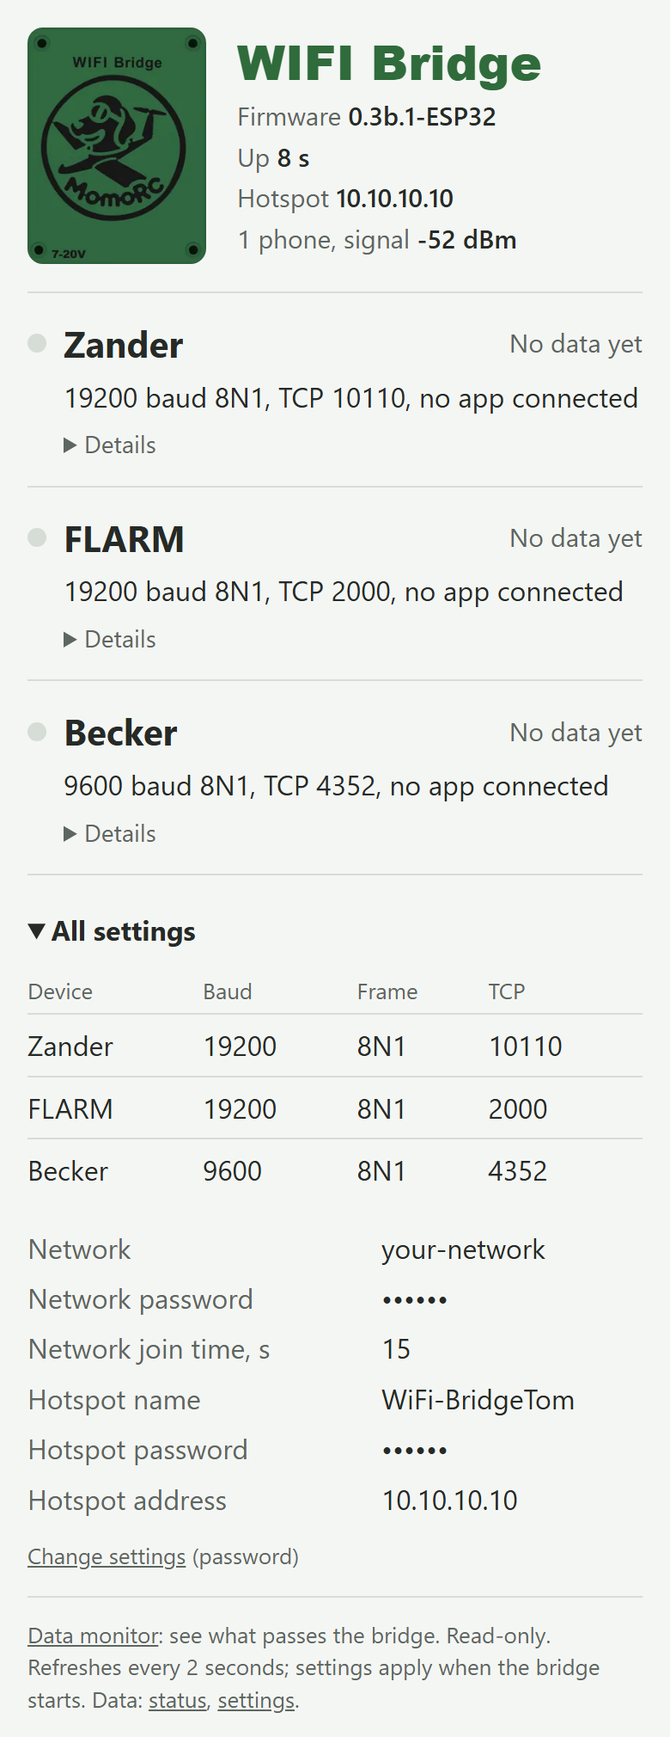
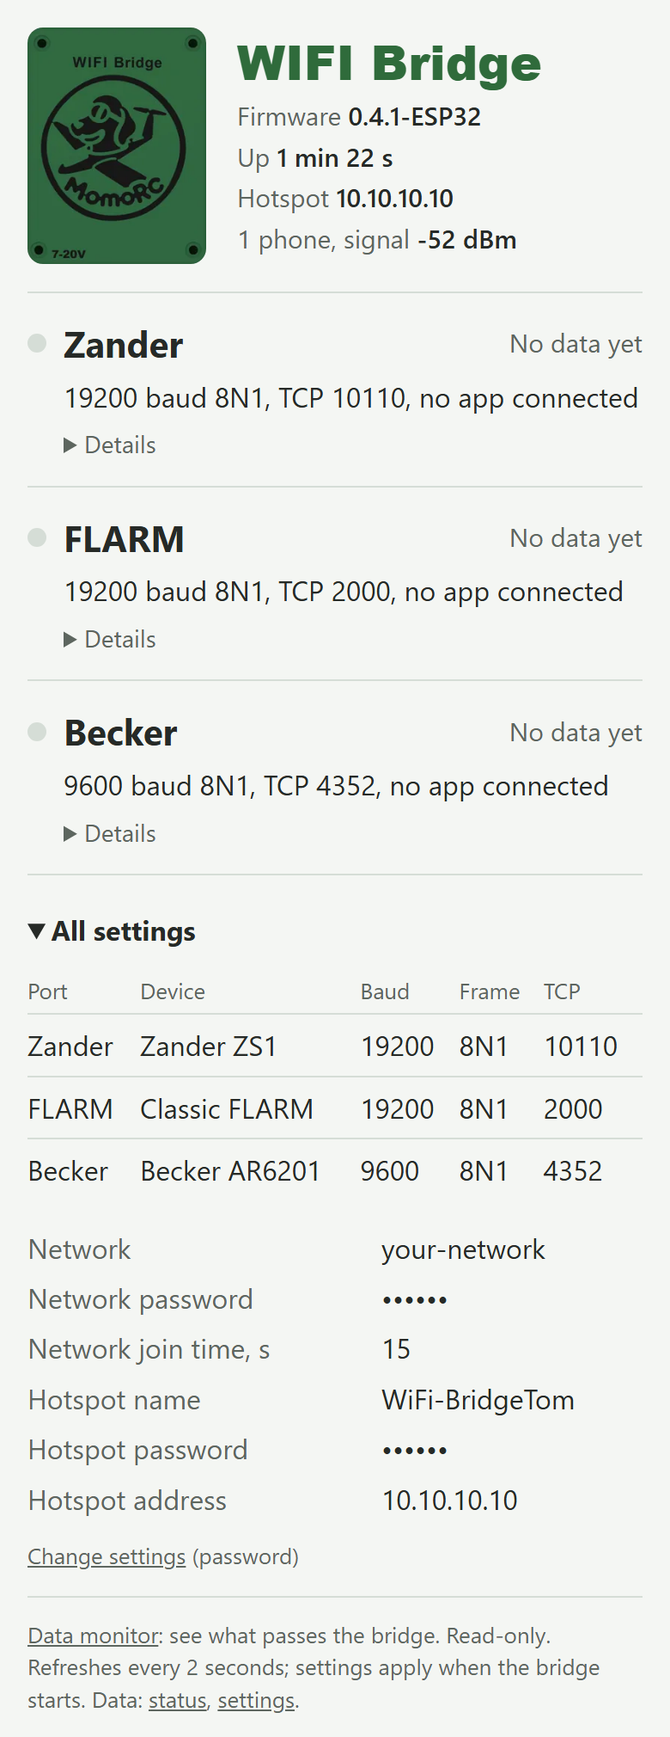
Add per-port device profiles to the bridge settings (WP9)
Owner decided to bring the WP9 software part forward. Firmware 0.4.1:
- Per-port device profile: Zander ZS1, Classic FLARM, Becker AR6201 or
  Custom. Stored as NVS key p0..p2; no format change.
- A preset fills baud and frame. Presets are offered and accepted only
  where the port wiring fits: RS-232 receive-only ports (Zander, FLARM)
  take ZS1 or Classic FLARM; the RS-422 Becker port takes AR6201.
- Editing baud or frame by hand saves the port as Custom.
- Settings page shows each port's wiring; status page settings table
  gets a Device column.
- Preset values are the candidates in config.h until installed settings
  are confirmed (WP9 open item).

Verified on the standalone bench ESP32 (S115): build 52 % (1,037,171
bytes), values stored on 0.4 survived OTA to 0.4.1 and show as Custom,
tools/settings_test.py 20/20, settings page script checked in headless
Chrome, status and settings screenshots regenerated. Not tested on the
wired bridge.

diff --git a/firmware/bridge/settings.h b/firmware/bridge/settings.h
@@ -18,9 +18,48 @@
 #define SETTINGS_FORMAT 1  // stored key "v"; another value means: ignore everything stored
 
 enum SettingOrigin : uint8_t { ORIGIN_DEFAULT, ORIGIN_STORED, ORIGIN_INVALID };
-enum SettingType : uint8_t { T_BAUD, T_FRAME, T_TCP, T_SSID, T_NETPASS, T_APPASS, T_SECONDS, T_IP };
+enum SettingType : uint8_t { T_PROFILE, T_BAUD, T_FRAME, T_TCP, T_SSID, T_NETPASS, T_APPASS, T_SECONDS, T_IP };
+
+// ---- device profiles (WP9) ------------------------------------------------------
+// A profile fills in the baud rate and frame of one instrument. It is offered only on
+// ports whose wiring fits its electrical interface. "custom" keeps manual values.
+// Preset values are the current candidates (config.h comments, sources S22, S23, S108);
+// the installed instrument settings are still to be confirmed.
+
+enum PortLink : uint8_t { LINK_RS232_IN, LINK_RS422_BOTH };  // electrical interface of a port
+
+static const char* linkText(PortLink l) {
+    return l == LINK_RS422_BOTH ? "RS-422, both ways" : "RS-232, bridge receives only";
+}
+
+struct DeviceProfile {
+    const char* id;  // stored value, at most 7 characters
+    const char* name;
+    PortLink link;
+    uint32_t baud;
+    const char* frame;
+};
+
+#define PROFILE_CUSTOM "custom"
+static const DeviceProfile kProfiles[] = {
+    {"zs1", "Zander ZS1", LINK_RS232_IN, 19200, "8N1"},
+    {"flarm", "Classic FLARM", LINK_RS232_IN, 19200, "8N1"},
+    {"ar6201", "Becker AR6201", LINK_RS422_BOTH, 9600, "8N1"},
+};
+static constexpr size_t kProfileCount = sizeof(kProfiles) / sizeof(kProfiles[0]);
+
+// Wiring of COM 0, 1, 2 (docs/hardware/wiring.md): two RS-232 modules without return line, the RS-422 board.
+static const PortLink kPortLink[] = {LINK_RS232_IN, LINK_RS232_IN, LINK_RS422_BOTH};
+static_assert(sizeof(kPortLink) / sizeof(kPortLink[0]) == NUM_COM, "one link per port");
+
+static const DeviceProfile* findProfile(const char* id) {
+    for (const DeviceProfile& p : kProfiles)
+        if (strcmp(p.id, id) == 0) return &p;
+    return nullptr;
+}
 
 struct PortSettings {
+    char profile[8];  // device profile id or "custom"
     uint32_t baud;
     char frame[4];  // data bits, parity, stop bits, for example "8N1"
     uint16_t tcpPort;
@@ -55,12 +94,15 @@ struct SettingItem {
 };
 
 static SettingItem kSettings[] = {
+    {"p0", T_PROFILE, settings.port[0].profile, ORIGIN_DEFAULT},
     {"b0", T_BAUD, &settings.port[0].baud, ORIGIN_DEFAULT},
     {"f0", T_FRAME, settings.port[0].frame, ORIGIN_DEFAULT},
     {"t0", T_TCP, &settings.port[0].tcpPort, ORIGIN_DEFAULT},
+    {"p1", T_PROFILE, settings.port[1].profile, ORIGIN_DEFAULT},
     {"b1", T_BAUD, &settings.port[1].baud, ORIGIN_DEFAULT},
     {"f1", T_FRAME, settings.port[1].frame, ORIGIN_DEFAULT},
     {"t1", T_TCP, &settings.port[1].tcpPort, ORIGIN_DEFAULT},
+    {"p2", T_PROFILE, settings.port[2].profile, ORIGIN_DEFAULT},
     {"b2", T_BAUD, &settings.port[2].baud, ORIGIN_DEFAULT},
     {"f2", T_FRAME, settings.port[2].frame, ORIGIN_DEFAULT},
     {"t2", T_TCP, &settings.port[2].tcpPort, ORIGIN_DEFAULT},
@@ -124,9 +166,17 @@ static bool validIp(uint32_t raw) {
     return ip[0] >= 1 && ip[0] <= 223 && ip[0] != 127 && ip[3] >= 1 && ip[3] <= 254;
 }
 
+// A profile fits a port if its interface matches the port's wiring; Custom fits every port.
+static bool profileFits(const char* id, int portNum) {
+    if (strcmp(id, PROFILE_CUSTOM) == 0) return true;
+    const DeviceProfile* p = findProfile(id);
+    return p && portNum >= 0 && portNum < NUM_COM && p->link == kPortLink[portNum];
+}
+
 // Check one value of the given type at v; portNum is -1 for values that belong to no port.
 static bool validAt(SettingType type, const void* v, int portNum) {
     switch (type) {
+        case T_PROFILE: return profileFits((const char*)v, portNum);
         case T_BAUD: return validBaud(*(const uint32_t*)v);
         case T_FRAME: return validFrame((const char*)v);
         case T_TCP: {
@@ -152,7 +202,21 @@ static bool validValue(const SettingItem& s, int portNum) { return validAt(s.typ
 
 static int portOf(const SettingItem& s) {  // port number for per-port keys, -1 otherwise
     const char c = s.key[1];
-    return (s.key[2] == 0 && c >= '0' && c < '0' + NUM_COM && strchr("bft", s.key[0])) ? c - '0' : -1;
+    return (s.key[2] == 0 && c >= '0' && c < '0' + NUM_COM && strchr("pbft", s.key[0])) ? c - '0' : -1;
+}
+
+// A preset whose baud or frame was edited by hand becomes Custom. Returns the ports changed.
+static int profilesMatchValues(BridgeSettings& b) {
+    int changed = 0;
+    for (int n = 0; n < NUM_COM; n++) {
+        PortSettings& ps = b.port[n];
+        const DeviceProfile* p = findProfile(ps.profile);
+        if (!p || (p->baud == ps.baud && strcmp(p->frame, ps.frame) == 0)) continue;
+        memset(ps.profile, 0, sizeof(ps.profile));  // whole-buffer comparisons in settingsSave()
+        strlcpy(ps.profile, PROFILE_CUSTOM, sizeof(ps.profile));
+        changed |= 1 << n;
+    }
+    return changed;
 }
 
 // ---- display -------------------------------------------------------------------
@@ -162,6 +226,7 @@ static bool settingSecret(const SettingItem& s) { return s.type == T_NETPASS || 
 // Short name of the value, without the port: "baud", "TCP port", "network" ...
 static const char* settingName(const SettingItem& s) {
     switch (s.type) {
+        case T_PROFILE: return "device";
         case T_BAUD: return "baud";
         case T_FRAME: return "frame";
         case T_TCP: return "TCP port";
@@ -198,7 +263,9 @@ static void fillDefaults(BridgeSettings& out) {
     const uint32_t baud[NUM_COM] = {UART_BAUD0, UART_BAUD1, UART_BAUD2};
     const uint32_t frame[NUM_COM] = {SERIAL_PARAM0, SERIAL_PARAM1, SERIAL_PARAM2};
     const uint16_t tcp[NUM_COM] = {SERIAL0_TCP_PORT, SERIAL1_TCP_PORT, SERIAL2_TCP_PORT};
+    const char* const profile[NUM_COM] = PORT_PROFILES;
     for (int n = 0; n < NUM_COM; n++) {
+        strlcpy(out.port[n].profile, profile[n], sizeof(out.port[n].profile));
         out.port[n].baud = baud[n];
         frameFromCode(frame[n], out.port[n].frame);
         out.port[n].tcpPort = tcp[n];
@@ -223,6 +290,7 @@ static size_t valueSize(SettingType t) {
         case T_TCP:
         case T_SECONDS: return 2;
         case T_FRAME: return 4;
+        case T_PROFILE: return 8;
         case T_SSID: return 33;
         default: return 64;  // passwords
     }
@@ -437,6 +505,13 @@ static void settingsLoad() {
     }
     p.end();
     settingsCrossCheck(defaults);
+    // Values saved before profiles existed, or edited by hand: a preset that no longer
+    // matches its baud and frame shows as Custom.
+    const int custom = profilesMatchValues(settings);
+    for (size_t i = 0; i < kSettingCount; i++) {
+        SettingItem& s = kSettings[i];
+        if (s.type == T_PROFILE && ((custom >> portOf(s)) & 1) && s.origin == ORIGIN_DEFAULT) s.origin = ORIGIN_STORED;
+    }
 #endif
 }
 

diff --git a/firmware/bridge/settings_page.h b/firmware/bridge/settings_page.h
@@ -29,6 +29,7 @@ static void restartSoon() {
 
 static const char* settingHint(SettingType type, int portNum) {
     switch (type) {
+        case T_PROFILE: return "Choose a listed device; the others do not fit this port's wiring";
         case T_BAUD: return "Choose one of the listed rates";
         case T_FRAME: return "Data bits 5 to 8, parity N, E or O, stop bits 1 or 2, for example 8N1";
         case T_TCP: return "1 to 65535, not 80, not used by another device";
@@ -107,6 +108,7 @@ static void handleSettingsSave() {
         statusServer.send(400, "application/json", "{\"ok\":false,\"errors\":{" + errors + "}}");
         return;
     }
+    profilesMatchValues(cand);  // a preset with edited baud or frame is stored as Custom
     const bool trial = settingsSave(cand);
     statusServer.send(200, "application/json", trial ? "{\"ok\":true,\"trial\":true}" : "{\"ok\":true,\"trial\":false}");
     restartSoon();
@@ -154,6 +156,7 @@ fieldset{border:0;border-top:1px solid var(--rule);margin:0;padding:14px 0}
 legend{font-size:20px;font-weight:700;padding:0 0 4px}
 .f{display:grid;grid-template-columns:repeat(auto-fill,minmax(130px,1fr));gap:12px 16px}
 .f.w{grid-template-columns:1fr}
+.dev{grid-column:1/-1}
 label{display:block;color:var(--mute);font-size:14px}
 input,select{display:block;width:100%;margin-top:3px;padding:8px 10px;font:inherit;color:var(--ink);background:var(--field);border:1px solid var(--rule);border-radius:8px}
 input:focus,select:focus,button:focus-visible{outline:2px solid var(--green);outline-offset:1px}
@@ -179,14 +182,18 @@ button{font:inherit;font-weight:600;border-radius:10px;padding:10px 18px;cursor:
 const $=i=>document.getElementById(i);
 const esc=x=>String(x).replace(/[&<>"]/g,c=>({'&':'&amp;','<':'&lt;','>':'&gt;','"':'&quot;'})[c]);
 const BAUD=[1200,2400,4800,9600,19200,38400,57600,115200,230400],FRAME=['8N1','8E1','8O1','8N2','7E1','7O1','7N1'];
-let items=[];
-function field(i){const id='k_'+i.key,lab=esc(i.name.charAt(0).toUpperCase()+i.name.slice(1));let c;
-if(i.key[0]==='b'||i.key[0]==='f'){const o=i.key[0]==='b'?BAUD:FRAME;c='<select id="'+id+'" name="'+i.key+'">'+o.map(x=>'<option'+(String(x)===i.value?' selected':'')+'>'+x+'</option>').join('')+'</select>'}
+let items=[],PROF={},PORTS=[],NAME={custom:'Custom'};
+function field(i){const id='k_'+i.key,lab=esc(i.name.charAt(0).toUpperCase()+i.name.slice(1)),n=i.key[1],dev=i.port&&i.key[0]==='p';let c,w='';
+if(dev){const P=PORTS[+n];c='<select id="'+id+'" name="'+i.key+'" onchange="preset('+n+')">'+P.profiles.concat('custom').map(x=>'<option value="'+x+'"'+(x===i.value?' selected':'')+'>'+esc(NAME[x])+'</option>').join('')+'</select>';w='<span class="def">Wiring: '+esc(P.interface)+'. Presets fill in baud and frame.</span>'}
+else if(i.port&&(i.key[0]==='b'||i.key[0]==='f')){const o=i.key[0]==='b'?BAUD:FRAME;c='<select id="'+id+'" name="'+i.key+'" onchange="manual('+n+')">'+o.map(x=>'<option'+(String(x)===i.value?' selected':'')+'>'+x+'</option>').join('')+'</select>'}
 else if(i.secret)c='<input id="'+id+'" name="'+i.key+'" type="password" autocomplete="new-password" placeholder="Unchanged">';
 else{const num=i.key[0]==='t'||i.key==='nj';c='<input id="'+id+'" name="'+i.key+'" value="'+esc(i.value)+'"'+(num?' inputmode="numeric"':'')+'>'}
-const d=i.secret?'':'<span class="def'+(i.origin==='changed'?' chg':'')+'">'+(i.origin==='changed'?'Changed, default ':'Default ')+esc(i.default)+'</span>';
-return '<div><label for="'+id+'">'+lab+'</label>'+c+d+'<div class="err" id="e_'+i.key+'"></div></div>'}
-function load(){fetch('/api/settings',{cache:'no-store'}).then(r=>r.json()).then(d=>{items=d.items;const g={},o=[];
+const dv=dev?NAME[i.default]||i.default:i.default;
+const d=i.secret?'':'<span class="def'+(i.origin==='changed'?' chg':'')+'">'+(i.origin==='changed'?'Changed, default ':'Default ')+esc(dv)+'</span>';
+return '<div'+(dev?' class="dev"':'')+'><label for="'+id+'">'+lab+'</label>'+c+d+(w?'<br>'+w:'')+'<div class="err" id="e_'+i.key+'"></div></div>'}
+function preset(n){const p=PROF[$('k_p'+n).value];if(p){$('k_b'+n).value=p.baud;$('k_f'+n).value=p.frame}}
+function manual(n){const s=$('k_p'+n),p=s&&PROF[s.value];if(p&&($('k_b'+n).value!==p.baud||$('k_f'+n).value!==p.frame))s.value='custom'}
+function load(){fetch('/api/settings',{cache:'no-store'}).then(r=>r.json()).then(d=>{items=d.items;PORTS=d.ports||[];for(const p of d.profiles||[]){PROF[p.id]=p;NAME[p.id]=p.name}const g={},o=[];
 for(const i of d.items){const k=i.port||'Wi-Fi';if(!g[k]){g[k]=[];o.push(k)}g[k].push(i)}
 $('fs').innerHTML=o.map(k=>'<fieldset><legend>'+esc(k)+'</legend><div class="f'+(k==='Wi-Fi'?' w':'')+'">'+g[k].map(field).join('')+'</div></fieldset>').join('');
 if(d.trial&&d.trial.active){$('trial').hidden=false;$('tt').textContent='These Wi-Fi or port settings are on trial. Keep them within '+Math.ceil(d.trial.seconds_left/60)+' min, otherwise the previous settings come back.'}})}

diff --git a/firmware/bridge/status_page.h b/firmware/bridge/status_page.h
@@ -110,10 +110,11 @@ $('x'+n).innerHTML='<div><dt>From device</dt><dd>'+size(p.bytes_from_device)+'</
 function g(){fetch('/api/settings',{cache:'no-store'}).then(r=>r.json()).then(d=>{
 const ports={},order=[],wifi=[];for(const i of d.items){if(i.port){if(!ports[i.port]){ports[i.port]={};order.push(i.port)}ports[i.port][i.key[0]]=i}else wifi.push(i)}
 order.forEach((k,n)=>{frame[n]=ports[k].f.value});
-const cell=i=>{const v=i.secret?'\u2022\u2022\u2022\u2022\u2022\u2022':esc(i.value);return i.origin==='changed'?'<b class="chg">'+v+'</b>':i.origin==='invalid'?'<b class="bad">'+v+'</b>':v};
+const pn={custom:'Custom'};for(const p of d.profiles||[])pn[p.id]=p.name;
+const cell=(i,t)=>{const v=i.secret?'\u2022\u2022\u2022\u2022\u2022\u2022':esc(t||i.value);return i.origin==='changed'?'<b class="chg">'+v+'</b>':i.origin==='invalid'?'<b class="bad">'+v+'</b>':v};
 let h=d.format_mismatch?'<p class="bad">Settings saved by another firmware version were ignored; the defaults are in use.</p>':'';
-h+='<table><tr><th>Device</th><th>Baud</th><th>Frame</th><th>TCP</th></tr>';
-for(const k of order){const p=ports[k];h+='<tr><td>'+esc(k)+'</td><td>'+cell(p.b)+'</td><td>'+cell(p.f)+'</td><td>'+cell(p.t)+'</td></tr>'}
+h+='<table><tr><th>Port</th><th>Device</th><th>Baud</th><th>Frame</th><th>TCP</th></tr>';
+for(const k of order){const p=ports[k];h+='<tr><td>'+esc(k)+'</td><td>'+(p.p?cell(p.p,pn[p.p.value]):'')+'</td><td>'+cell(p.b)+'</td><td>'+cell(p.f)+'</td><td>'+cell(p.t)+'</td></tr>'}
 h+='</table><div class="grp">';for(const i of wifi){h+='<span>'+esc(i.name.charAt(0).toUpperCase()+i.name.slice(1))+'</span><div>'+cell(i)+'</div>'}
 const any=d.items.some(i=>i.origin!=='default');
 if(d.trial&&d.trial.active){$('trial').hidden=false;$('tt').textContent='New Wi-Fi or port settings are on trial for '+Math.ceil(d.trial.seconds_left/60)+' more min.'}
@@ -183,6 +184,30 @@ static String settingsJson() {
     String out;
     out.reserve(2048);
     out += settingsFormatMismatch ? "{\"format_mismatch\":true," : "{\"format_mismatch\":false,";
+    char part[160];  // one profile is about 115 bytes
+    out += "\"profiles\":[";  // device profiles (WP9): what each preset fills in and needs
+    for (size_t i = 0; i < kProfileCount; i++) {
+        const DeviceProfile& p = kProfiles[i];
+        snprintf(part, sizeof(part), "%s{\"id\":\"%s\",\"name\":\"%s\",\"baud\":\"%lu\",\"frame\":\"%s\",\"interface\":\"%s\"}",
+                 i ? "," : "", p.id, p.name, (unsigned long)p.baud, p.frame, linkText(p.link));
+        out += part;
+    }
+    out += "],\"ports\":[";  // per port: its wiring and the profiles that fit it
+    for (int n = 0; n < NUM_COM; n++) {
+        snprintf(part, sizeof(part), "%s{\"name\":\"%s\",\"interface\":\"%s\",\"profiles\":[", n ? "," : "", kPortName[n],
+                 linkText(kPortLink[n]));
+        out += part;
+        bool first = true;
+        for (const DeviceProfile& p : kProfiles) {
+            if (!profileFits(p.id, n)) continue;
+            out += first ? "\"" : ",\"";
+            out += p.id;
+            out += "\"";
+            first = false;
+        }
+        out += "]}";
+    }
+    out += "],";
     if (settingsTrial) {
         const uint32_t left = millis() < SETTINGS_TRIAL_MS ? (SETTINGS_TRIAL_MS - millis()) / 1000 : 0;
         out += "\"trial\":{\"active\":true,\"seconds_left\":" + String(left) + "},\"items\":[";

diff --git a/tools/settings_test.py b/tools/settings_test.py
@@ -12,8 +12,10 @@ Checks:
  3. a serial change (radio baud) is saved, survives the restart, no trial
  4. setting it back to the default removes it (shows as default)
  5. a port change starts a trial; the new port listens; Keep ends the trial
- 6. reset brings back all defaults
- 7. with --revert: an unkept port change reverts after 10 minutes
+ 6. device profiles: only presets that fit a port's wiring are offered and
+    accepted; a preset fills baud and frame; an edited preset is saved as Custom
+ 7. reset brings back all defaults
+ 8. with --revert: an unkept port change reverts after 10 minutes
 """
 
 import argparse
@@ -116,6 +118,23 @@ def main():
     code, _ = request(host, "/api/settings", {"b2": b2["default"]}, auth=pw)
     s = wait_back(host)
     check("back to default shows as default", item(s, "b2")["origin"] == "default" and code == 200)
+
+    s = settings(host)
+    offered = {p["name"]: p["profiles"] for p in s.get("ports", [])}
+    check("presets offered by wiring", offered == {"Zander": ["zs1", "flarm"], "FLARM": ["zs1", "flarm"], "Becker": ["ar6201"]}, str(offered))
+    code, body = request(host, "/api/settings", {"p2": "zs1", "p0": "ar6201", "p1": "nonsense"}, auth=pw)
+    errs = json.loads(body).get("errors", {}) if code == 400 else {}
+    check("unfitting or unknown presets refused", code == 400 and {"p0", "p1", "p2"} <= set(errs), f"HTTP {code}, fields {sorted(errs)}")
+
+    code, body = request(host, "/api/settings", {"p0": "flarm", "b0": "19200", "f0": "8N1", "p1": "flarm", "b1": "9600", "f1": "8N1"}, auth=pw)
+    check("preset change saved without trial", code == 200 and json.loads(body) == {"ok": True, "trial": False}, body.decode())
+    s = wait_back(host)
+    p0, b0, p1, b1 = (item(s, k) for k in ("p0", "b0", "p1", "b1"))
+    check("Zander port keeps the FLARM preset after restart", p0["value"] == "flarm" and p0["origin"] == "changed" and b0["origin"] == "default", f"{p0}, {b0}")
+    check("edited preset saved as Custom", p1["value"] == "custom" and b1["value"] == "9600", f"{p1}, {b1}")
+    code, _ = request(host, "/api/settings", {"p0": "zs1", "b0": "19200", "f0": "8N1", "p1": "flarm", "b1": "19200", "f1": "8N1"}, auth=pw)
+    s = wait_back(host)
+    check("default presets show as default", code == 200 and all(item(s, k)["origin"] == "default" for k in ("p0", "b0", "f0", "p1", "b1", "f1")))
 
     code, body = request(host, "/api/settings", {"t0": "10111"}, auth=pw)
     check("port change starts a trial", code == 200 and json.loads(body).get("trial") is True, body.decode())

diff --git a/firmware/bridge/config.h b/firmware/bridge/config.h
@@ -53,7 +53,7 @@
                              // incoming bytes while the loop waits on a UART write
 
 #ifdef ESP32
-#define VERSION "0.4-ESP32"       // Project: own version, 0.<plan step> until bench acceptance
+#define VERSION "0.4.1-ESP32"     // Project: own version, 0.<plan step> until bench acceptance; .1 = device profiles (WP9)
 #elif defined(ESP8266)
 #define VERSION "0.3b.1-ESP8266"
 #endif
@@ -65,6 +65,7 @@
 #define STATUS_PAGE            // Project: read-only status page on port 80 and /api/status (ESP32 only)
 #define STORED_SETTINGS        // Project: settings stored on the ESP32 override the defaults here (step 3a, ESP32 only)
 #define PORT_NAMES {"Zander", "FLARM", "Becker"}  // Project: COM 0, 1, 2 on the status page
+#define PORT_PROFILES {"zs1", "flarm", "ar6201"}  // Project: default device profile per COM (settings.h); baud and frame must match UART_BAUDn and SERIAL_PARAMn
 //#define BLUETOOTH 0          // uncomment to create a bluetooth serial bridge on the indicated serial port (ESP32 only)
 //#define BATTERY_SAVER        // uncomment to reduce wifi power
 

diff --git a/docs/research/sources.md b/docs/research/sources.md
@@ -7,7 +7,7 @@
 Every source the project relies on: what it is, what was checked in it, and its limits. Other pages cite these IDs (S01, F02 …).
 
 > [!NOTE]
-> **Status:** documents and code are reviewed; owner-measured RS-232 and ESP32 PCB dimensions are recorded in S38 and S40, the OTA loader and bridge firmware bench results in S97–S107. Electrical checks of the bridge hardware are pending. Dated review records: [reviews](reviews).
+> **Status:** documents and code are reviewed; owner-measured RS-232 and ESP32 PCB dimensions are recorded in S38 and S40, the OTA loader and bridge firmware bench results in S97–S115. Electrical checks of the bridge hardware are pending. Dated review records: [reviews](reviews).
 
 📑 **On this page:** <kbd>[1 · 🏷 Evidence labels](#evidence-labels)</kbd> <kbd>[2 · 📋 Source register](#source-register)</kbd> <kbd>[3 · 🔍 Driver findings](#findings)</kbd>
 
@@ -142,6 +142,7 @@ New evidence records the revision or page, the date, what was checked and its la
 | S112 | [Bridge firmware](../../firmware/bridge/README.md#data-monitor) step 3b: data monitor and UDP send counter, firmware 0.3b, 2026-11-17 | Measured by Claude on the bench PC and bench ESP32 (bare, USB, jumpers as S105). Build 1,036,079 bytes (52 %), 80,464 bytes static RAM (+20 kB for the buffers). `tools/monitor_test.py` 7/7: nothing collected before the monitor opened; a line sent to the Zander port showed on Zander as *to* and on FLARM as *from*; a radio frame with 00 and A5 bytes showed both ways; collection stopped 10 s after the last poll; page served. Loop test with the monitor polling like the page (one device, new chunks only, every second): 4 of 5 runs 8/8, one run lost one UDP datagram; without the monitor 1 of 3 runs 8/8, two runs lost one UDP datagram each. The bridge refused no UDP send in any run (new `udp_drops` counter 0), so the losses happen after the bridge, on the broadcast path without acknowledgement. TCP and radio paths byte-exact in every run. A harsher poll (full history of all three devices every second, about 33 kB/s) lost one UDP datagram in 2 of 4 runs before the reply was streamed from a fixed buffer. Page rendering checked in Chrome with demo data; Pause, Clear and Download were not exercised, nor any phone browser. |
 | S113 | [Bridge firmware](../../firmware/bridge/README.md#project-settings) 0.3b.1: UDP removed on the owner's decision, 2026-11-17 | Measured by Claude on the bench PC and bench ESP32 (bare, USB, jumpers as S105). Build 1,031,347 bytes (52 %), 80,272 bytes static RAM. Loop test 4/4: TCP Zander and FLARM both ways and the radio loop byte-exact; UDP datagrams sent to 14550, 14551 and 14552 reached no device. Monitor test 7/7, settings test 14/14 (without the timed revert, whose code is unchanged). Status and settings page show no UDP fields. Reason for the removal: S112, UDP broadcast lost single datagrams with and without load while the bridge refused no send. |
 | S114 | [Bridge firmware](../../firmware/bridge/README.md#loop-check-step-2) 0.4, WP6 step 4, 2026-11-17. Standalone ESP32, USB power, jumper loops as S105 | Built with arduino-cli 1.3.1 and Arduino-ESP32 3.3.12, 1,034,839 bytes (52 %) and 80,280 bytes static RAM. Only the two existing `available()` deprecation warnings on the navigation listeners. OTA upload over the bench network and restart verified. `bridge_loop_test.py --radio-loop --radio-owner` went from 7/10 on 0.3b.1 to 10/10 on 0.4: second radio client refused, its data excluded, port reclaimed after TCP FIN, all three loops byte-exact. Monitor test 7/7. Status reported zero UART errors and TCP short writes. Still to test: keepalive after an unannounced Wi-Fi loss, hotspot disassociation, MAX490 and RS-232 paths, and step 5. |
+| S115 | [Bridge firmware](../../firmware/bridge/README.md#settings-page) 0.4.1, device profiles (WP9, software part), 2026-11-17. Standalone ESP32, USB power, jumper loops as S105 | Measured by Claude on the bench PC and bench ESP32. Built with arduino-cli 1.6.0 and Arduino-ESP32 3.3.12, 1,037,171 bytes (52 %) and 80,352 bytes static RAM; only the two existing `available()` warnings. Settings stored on 0.4 (radio baud 19200, FLARM frame 8E1) survived the OTA update to 0.4.1, stayed active (UART2 at 19200) and showed as Custom on both ports; format version unchanged. `tools/settings_test.py` 20/20, including: presets offered by wiring (Zander and FLARM ports: ZS1, Classic FLARM; Becker port: AR6201); unfitting or unknown presets refused per field; Classic FLARM preset on the Zander port kept after restart with baud and frame shown as default; a preset with edited baud saved as Custom; trial, Keep and reset unchanged. Settings page script in headless Chrome: a preset fills baud and frame, a manual baud or frame change selects Custom. Preset values are the config.h candidates, not installed settings. |
 
 ---
 

diff --git a/docs/project/roadmap.md b/docs/project/roadmap.md
@@ -7,7 +7,7 @@
 The single work queue: which work package comes next and what finishes it.
 
 > [!NOTE]
-> **Status:** WP3 continues with wiring and bench validation. In the [bridge firmware plan](#firmware-plan) (WP6), steps 1–3b are done and step 4 firmware is on the standalone ESP32. The wired checks for steps 4 and 5 remain. The driver packages (WP4, WP5) wait until WP3 is complete. Work outside the approved plan needs the owner's approval.
+> **Status:** WP3 continues with wiring and bench validation. In the [bridge firmware plan](#firmware-plan) (WP6), steps 1–3b are done and step 4 firmware is on the standalone ESP32. The wired checks for steps 4 and 5 remain. The software part of the device profiles (WP9) is brought forward and runs on the standalone ESP32. The driver packages (WP4, WP5) wait until WP3 is complete. Work outside the approved plan needs the owner's approval.
 
 📑 **On this page:** <kbd>[1 · 📦 Work packages](#work-packages)</kbd> <kbd>[2 · 💻 Bridge firmware plan](#firmware-plan)</kbd> <kbd>[3 · 🏁 Milestones](#milestones)</kbd> <kbd>[4 · ✅ Test coverage for the software phase](#test-coverage)</kbd>
 
@@ -29,7 +29,7 @@ Related: ❓ [Open items](open-items.md) · 🎯 [Requirements](../design/requir
 | WP5 Host tests | ⏸ Send regression only ([review](../research/reviews/2026-11-08-becker-send.md)) | After WP4 scope is approved | Framing, state, reply and reconnect cases pass |
 | WP6 Bridge firmware | 🟡 Step 4 firmware checked on the standalone ESP32 (S114) | Run the step 4 [wired checks](#firmware-plan), then step 5 | Radio path byte-exact, single owner, navigation unaffected; phone signal readable on the status page in hotspot mode ([R10](../design/requirements.md#requirements)) |
 | WP8 Aircraft integration | ⬜ Later | Needs verified hardware and separate approval | Installation, protection and approval requirements met |
-| WP9 Device profiles | ⬜ Planned | After WP3 and WP6 bench acceptance, define the first [device profiles](#device-profiles) from verified settings | Presets and manual settings work on compatible ports, survive restart and OTA, and preserve existing configurations |
+| WP9 Device profiles | 🟡 Software part brought forward: [profiles](#device-profiles) in firmware 0.4.1 on the standalone ESP32 (S115) | Replace the candidate preset values once the [installed settings](open-items.md#installed-equipment) are known; check them on the wired bridge | Presets and manual settings work on compatible ports, survive restart and OTA, and preserve existing configurations |
 
 ### 1.1 Work loop
 
@@ -50,7 +50,7 @@ flowchart LR
 ### 1.2 Device profiles (WP9)
 
 - Choose an instrument preset per port on the [settings page](#settings-page) to fill in its baud rate and serial frame. Use **Custom** for manual values. Keep the TCP port editable independently so the OpenSoar connection can stay the same.
-- Start with Zander ZS1, Classic FLARM and Becker AR6201 once their settings are verified. Show the required electrical interface and offer presets only on ports with compatible wiring and direction. Candidate additions are LXNAV S80/S100, PowerFLARM Fusion, TQ KRT2 and f.u.n.k.e. ATR833, subject to model and interface checks.
+- First presets: Zander ZS1, Classic FLARM and Becker AR6201, with the candidate values from `config.h` until the installed settings are verified. The page shows each port's wiring and offers presets only where wiring and direction fit ([firmware](../../firmware/bridge/README.md#settings-page)). Candidate additions are LXNAV S80/S100, PowerFLARM Fusion, TQ KRT2 and f.u.n.k.e. ATR833, subject to model and interface checks.
 - Keep device protocol handling in OpenSoar and retain [one writer on the dedicated radio port](../design/architecture.md#adr-01).
 
 ---

diff --git a/firmware/bridge/README.md b/firmware/bridge/README.md
@@ -61,7 +61,7 @@ Open `http://<bridge address>/` (10.10.10.10 in hotspot mode) in a browser. [`st
 | `/` | The page, about 7.4 kB |
 | `/device.webp` | Lid photo, 5.3 kB, cached for a day |
 | `/api/status` | Live counters as JSON |
-| `/api/settings` | Active settings, their defaults and source (`default`, `changed`, `invalid`) and the trial state as JSON |
+| `/api/settings` | Active settings, their defaults and source (`default`, `changed`, `invalid`), the trial state and the device profiles with the presets that fit each port, as JSON |
 | `/monitor`, `/api/monitor` | [Data monitor](#data-monitor) |
 
 After any change to the status, settings or monitor page, take new screenshots from the running bridge and commit them with the change: `python tools/status_screenshot.py <bridge address>`. It masks the network name, shows hotspot mode and uses demo data for the monitor, since the repository is public.
@@ -76,7 +76,8 @@ Open *Change settings* under *All settings*, or `http://<bridge address>/setting
 
 | What | How it works |
 | --- | --- |
-| Values | Per device: baud, frame, TCP port. Wi-Fi: network name and password, join time, hotspot name, password and address. Pins, radio port rules, hostname and OTA password stay fixed in the firmware |
+| Values | Per device: device profile, baud, frame, TCP port. Wi-Fi: network name and password, join time, hotspot name, password and address. Pins, radio port rules, hostname and OTA password stay fixed in the firmware |
+| Device profiles | Choose the instrument on a port: Zander ZS1, Classic FLARM, Becker AR6201 or Custom. A preset fills in baud and frame; changing either by hand selects Custom. Only presets that fit the port's wiring are offered and accepted: Zander and FLARM ports (RS-232, bridge receives only) take ZS1 or Classic FLARM, the Becker port (RS-422, both ways) takes AR6201. The page shows the port's wiring under the choice. Preset values are the candidates in `config.h`. Settings saved before profiles existed keep working: a preset that no longer matches its baud and frame shows as Custom. The TCP port stays separate
 | Checks | Every field is checked on the bridge; a refused save names each wrong field and changes nothing. TCP ports may not repeat and may not be 80 |
 | Passwords | Never shown. Leave the field empty to keep the current one |
 | Save and restart | Values equal to the default are not stored, so they show as default. The bridge restarts and uses the new values |
@@ -87,11 +88,11 @@ Open *Change settings* under *All settings*, or `http://<bridge address>/setting
 | Address | Content |
 | --- | --- |
 | `GET /settings` | The page (password) |
-| `POST /api/settings` | Check and save form fields named by their keys (`b0`, `f0`, `t0` ... `ns`, `np`, `nj`, `hs`, `hp`, `ha`), then restart (password) |
+| `POST /api/settings` | Check and save form fields named by their keys (`p0`, `b0`, `f0`, `t0` ... `ns`, `np`, `nj`, `hs`, `hp`, `ha`), then restart (password) |
 | `POST /api/keep` | Keep settings on trial (password) |
 | `POST /api/reset` | Forget all stored values, then restart (password) |
 
-Bench check: `python tools/settings_test.py <bridge address> [--revert]` runs the password, refusal, save, trial, *Keep*, reset and (with `--revert`, 10 minutes) automatic revert checks. The bridge must be in network mode, so its address stays the same across restarts.
+Bench check: `python tools/settings_test.py <bridge address> [--revert]` runs the password, refusal, save, device profile, trial, *Keep*, reset and (with `--revert`, 10 minutes) automatic revert checks. The bridge must be in network mode, so its address stays the same across restarts.
 
 <a id="data-monitor"></a>
 

diff --git a/AGENTS.md b/AGENTS.md
@@ -4,7 +4,7 @@
 
 This project is preparing a bench prototype. Read README.md, the current package in docs/project/roadmap.md, and only the source/documents needed for that package. Check repository status and preserve unrelated edits.
 
-**Current focus: WP3 wiring and bench validation.** Use the accepted housing design linked from the roadmap. Reopen mechanical design only if a physical check calls for a change. In parallel, the bridge firmware follows the approved plan in the roadmap, one step at a time: steps 1–3b done, step 4 firmware checked on the standalone ESP32, wired checks for steps 4–5 pending. Ask the owner before removing any upstream feature from it. No other software or driver work until WP3 is complete. Ask the owner for each hardware decision (part choice, circuit option, wiring choice) separately; present the options with a recommendation, then record the answer.
+**Current focus: WP3 wiring and bench validation.** Use the accepted housing design linked from the roadmap. Reopen mechanical design only if a physical check calls for a change. In parallel, the bridge firmware follows the approved plan in the roadmap, one step at a time: steps 1–3b done, step 4 firmware checked on the standalone ESP32, wired checks for steps 4–5 pending. Ask the owner before removing any upstream feature from it. The software part of the device profiles (WP9) is brought forward by owner decision; its presets wait for the installed settings. No other software or driver work until WP3 is complete. Ask the owner for each hardware decision (part choice, circuit option, wiring choice) separately; present the options with a recommendation, then record the answer.
 
 The roadmap is the single work queue. A listed package, proposed ADR or recommendation is not implementation approval. For a broad request to continue, use the next package and its stated boundaries.
 
